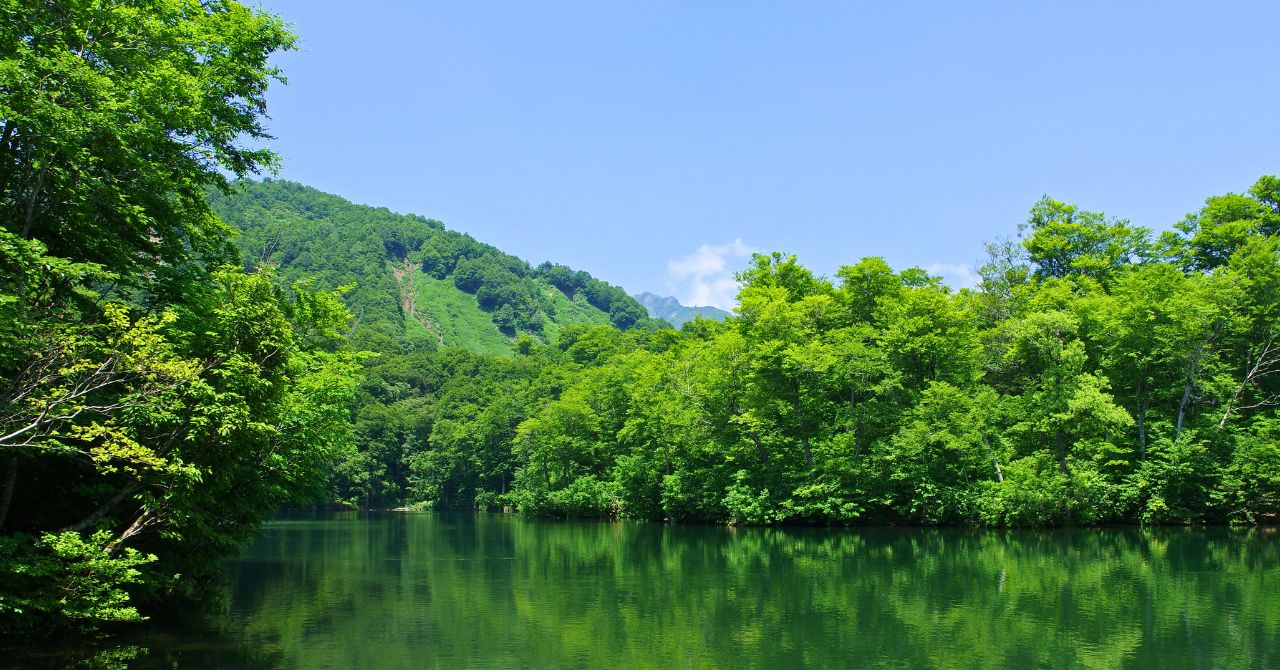
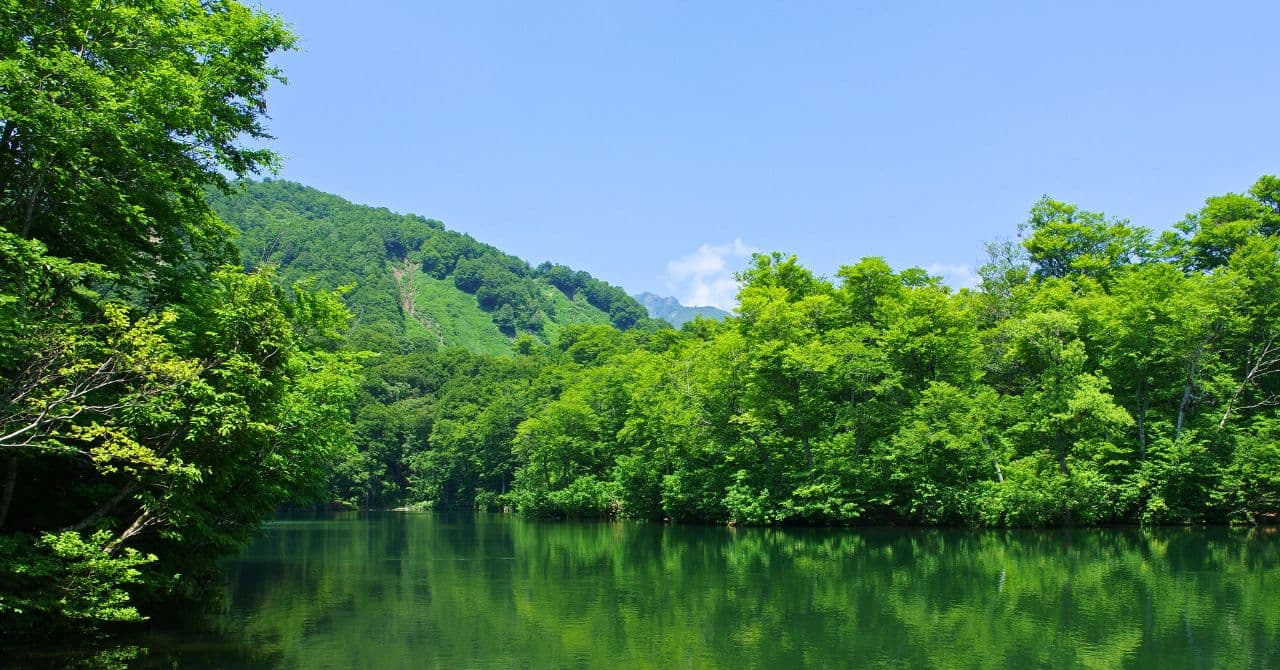
画像パス修正テスト5(画像size変更、画像圧縮)

diff --git a/index.html b/index.html
@@ -326,9 +326,9 @@
                     <div class="swiper-slide top-case-contents-swiper-slide">
                       <div class="top-case-contents-thumbnail">
                         <img
-                          src="./images/image_case-01.jpeg"
-                          width="7360"
-                          height="4912"
+                          src="./images/image_case-01.jpg"
+                          width="1200"
+                          height="801"
                           alt="施工事例1"
                           decoding="async"
                         />
@@ -347,9 +347,9 @@
                     <div class="swiper-slide top-case-contents-swiper-slide">
                       <div class="top-case-contents-thumbnail">
                         <img
-                          src="./images/image_case-02.jpeg"
-                          width="7360"
-                          height="4912"
+                          src="./images/image_case-02.jpg"
+                          width="1200"
+                          height="800"
                           alt="施工事例2"
                           decoding="async"
                         />
@@ -368,9 +368,9 @@
                     <div class="swiper-slide top-case-contents-swiper-slide">
                       <div class="top-case-contents-thumbnail">
                         <img
-                          src="./images/image_case-03.jpeg"
-                          width="7360"
-                          height="4912"
+                          src="./images/image_case-03.jpg"
+                          width="1200"
+                          height="801"
                           alt="施工事例3"
                           decoding="async"
                         />
@@ -413,9 +413,9 @@
               <section class="top-review-item">
                 <div class="top-review-thumbnail">
                   <img
-                    src="./images/image_review-02.jpeg"
-                    width="6000"
-                    height="4000"
+                    src="./images/image_review-02.jpg"
+                    width="1199"
+                    height="651"
                     alt="K様家族の写真"
                     decoding="async"
                   />
@@ -439,9 +439,9 @@
               <section class="top-review-item">
                 <div class="top-review-thumbnail">
                   <img
-                    src="./images/image_review-01.jpeg"
-                    width="6000"
-                    height="4000"
+                    src="./images/image_review-01.jpg"
+                    width="1200"
+                    height="800"
                     alt="S様家族の写真"
                     decoding="async"
                   />
@@ -465,9 +465,9 @@
               <section class="top-review-item">
                 <div class="top-review-thumbnail">
                   <img
-                    src="./images/image_review-03.jpeg"
-                    width="6000"
-                    height="4000"
+                    src="./images/image_review-03.jpg"
+                    width="1200"
+                    height="794"
                     alt="T様家族の写真"
                     decoding="async"
                   />
@@ -505,8 +505,8 @@
                   <div class="top-journal-thumbnail">
                     <img
                       src="./images/image_journal-01.jpg"
-                      width="6000"
-                      height="4000"
+                      width="1200"
+                      height="800"
                       alt="地域の情報1"
                       decoding="async"
                     />
@@ -521,8 +521,8 @@
                   <div class="top-journal-thumbnail">
                     <img
                       src="./images/image_journal-02.jpg"
-                      width="6000"
-                      height="4000"
+                      width="1200"
+                      height="900"
                       alt="地域の情報2"
                       decoding="async"
                     />
@@ -537,8 +537,8 @@
                   <div class="top-journal-thumbnail">
                     <img
                       src="./images/image_journal-03.jpg"
-                      width="6000"
-                      height="4000"
+                      width="1280"
+                      height="670"
                       alt="地域の情報3"
                       decoding="async"
                     />
@@ -553,8 +553,8 @@
                   <div class="top-journal-thumbnail">
                     <img
                       src="./images/image_journal-04.jpg"
-                      width="6000"
-                      height="4000"
+                      width="1200"
+                      height="767"
                       alt="地域の情報4"
                       decoding="async"
                     />

diff --git a/css/style.css b/css/style.css
@@ -978,7 +978,7 @@ page > top > top-common
   left: 0;
   width: 100%;
   height: 100vh;
-  background-image: url("../images/bg_top-break.png");
+  background-image: url("../images/bg_top-break.jpg");
   background-size: cover;
   background-repeat: no-repeat;
   background-position: center;
@@ -1005,7 +1005,7 @@ page > top > top-kv
 ------------------------------
 */
 .top-kv {
-  background-image: url("../images/bg_top-kv.jpeg");
+  background-image: url("../images/bg_top-kv.jpg");
   background-size: cover;
   background-repeat: no-repeat;
   background-position: center;
@@ -1065,7 +1065,7 @@ page > top > top-kv
 .top-about {
   height: 100vh;
   background-image: linear-gradient(rgba(0, 0, 0, 0.1), rgba(0, 0, 0, 0.1)),
-    url("../images/bg_top-about.jpeg");
+    url("../images/bg_top-about.jpg");
   background-size: cover;
   background-repeat: no-repeat;
   background-position: center;
